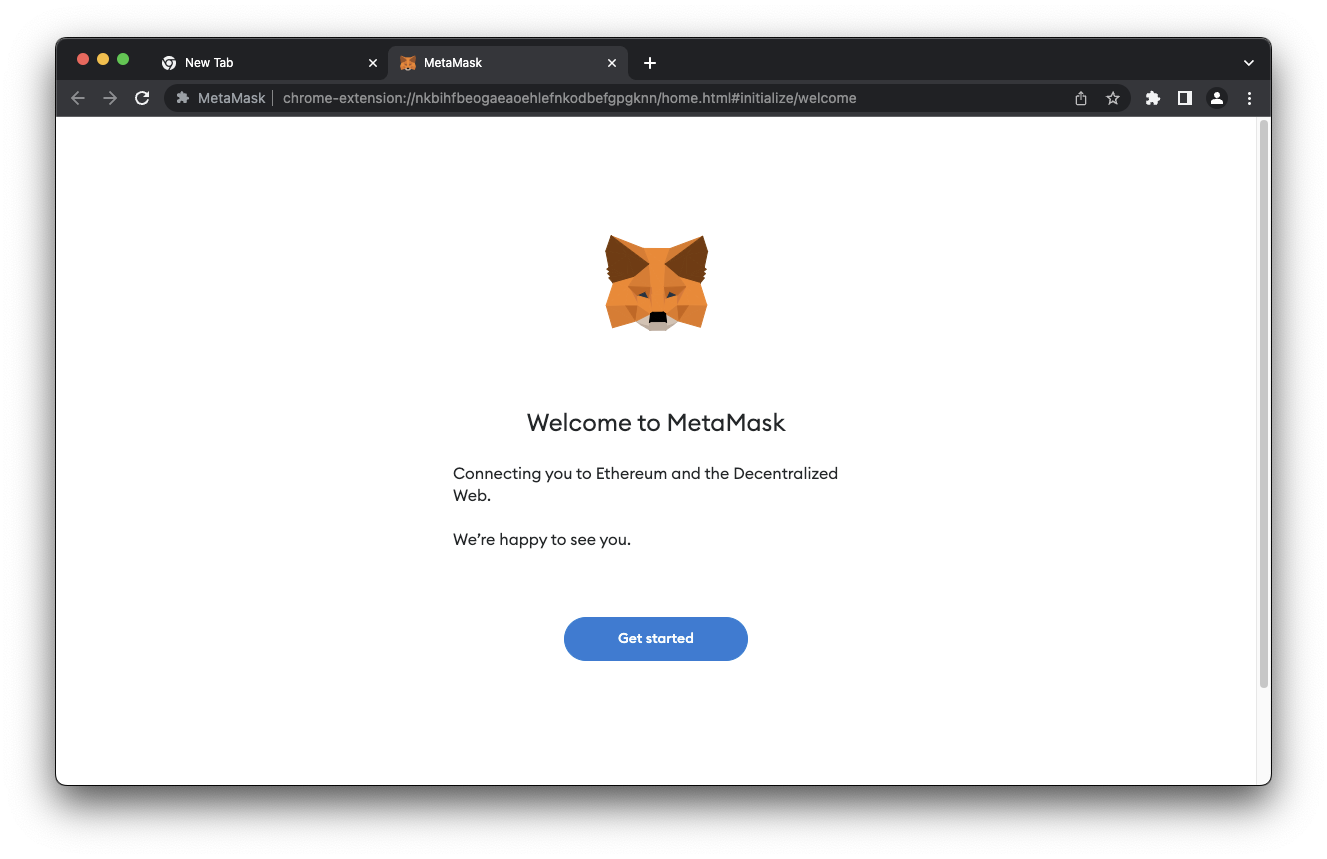
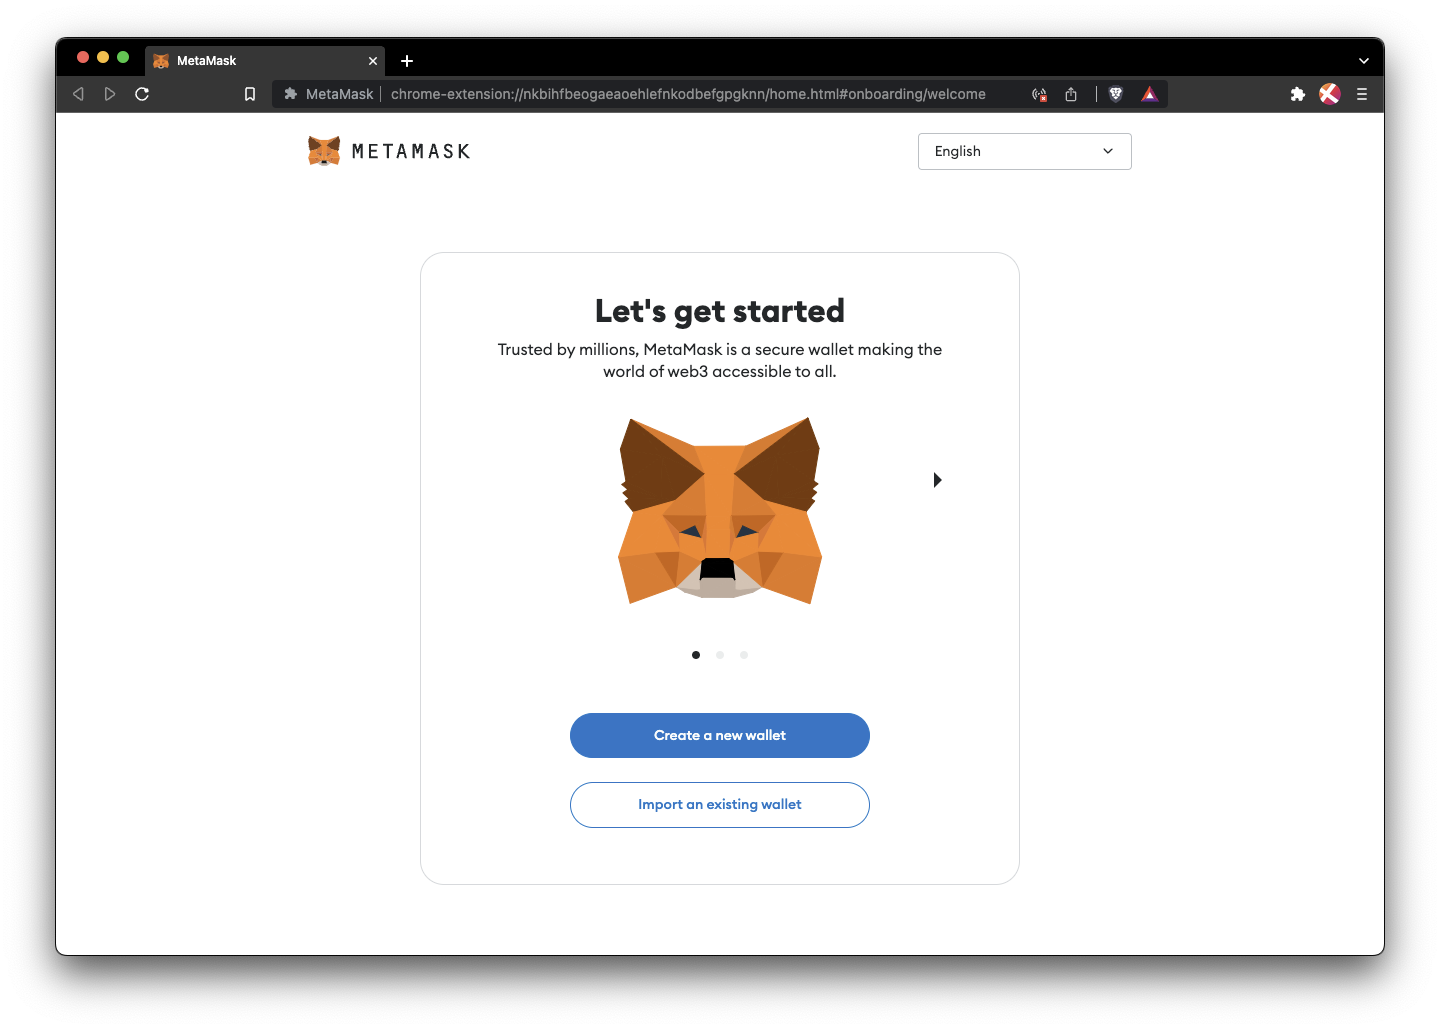
Recreates metamask and chainlist screenshots.

Changed region(s): [[0.0309, 0.0303, 0.9887, 0.9686], [0.3399, 0.2724, 0.6488, 0.6356], [0.3708, 0.6659, 0.6179, 0.787]]

diff --git a/content/en/developers/smart-contracts/quickstart/index.md b/content/en/developers/smart-contracts/quickstart/index.md
@@ -36,40 +36,84 @@ Before we can interact with the Filecoin network, we need funds. But before we c
 
     ![Get started with MetaMask.](metamask-get-started.png)
 
-1. Follow the prompts until you MetaMask asks if you are **New to MetaMask**.
-1. Because you still need an account on the Filecoin network, select **Create a wallet**.
+1. Click **Create a new wallet**.
+1. Enter a password to secure your MetaMask wallet. You will need to enter this password every time you use the wallet.
 
-    ![Create a wallet in MetaMask.](metamask-create-new-wallet.png)
+    ![Create a password for your MetaMask wallet.](metamask-create-password.png)
 
-1. Enter a secure password. You will use this password every time you want to open this wallet in this browser.
-1. Click **Next** until you get to the **Secret Recovery Phrase** window. Read the information about what this _recovery phrase_ is on this page.
-1. Once you've followed the instructions and saved your recovery phrase, click **Next**.
-1. Confirm that you saved the recovery phrase correctly by clicking on the words in order.
+1. Follow the prompts until you get to the **Secret Recovery Phrase** window. Read the information about what this _recovery phrase_ is on this page.
+1. Eventually you should get to the _Wallet creation success_ page!
+
+    ![Wallet creation successful!](metamask-creation-success.png)
+
 1. Once you've done that, you should have your account set up!
+
+    ![Default MetaMask page.](metamask-default-page.png)
 
 ### Switch networks
 
-You may notice that we are currently connected to the **Ethereum Mainnet**. We need to point MetaMask to the Filecoin network, specifically the [Hyperspace testnet]({<< reref "available-networks#hyerspace" >}}). We'll use a website called [chainlist.org](https://chainlist.org/) to give MetaMask the information it needs quickly.
+You may notice that we are currently connected to the **Ethereum Mainnet**. We need to point MetaMask to the Filecoin network, specifically the [Hyperspace testnet]({{< relref "/developers/infrastructure/networks" >}}). We'll use a website called [chainlist.org](https://chainlist.org/) to give MetaMask the information it needs quickly.
 
 1. Go to [chainlist.org](https://chainlist.org/).
 1. Enable the **Testnets** toggle and enter `Filecoin` into the search bar.
+
+    ![Search for Filecoin testnets in Chainlist.](chainlist-search-for-filecoin-testnets.png)
+
 1. Scroll down to find the **Filecoin -- Hyperspace** testnet:
-1. In MetaMask click **Next** and then **Continue** when prompted to connect Chainlist.org to MetaMask:
-1. Back on the Chainlist.org page, click the **Filecoin -- Hyperspace** testnet connect button again.
-1. In MetaMask click **Approve** when prompted to _Allow this site to add a network_:
+
+    ![Find the Hyperspace testnet.](chainlist-select-hyperspace.png)
+
+1. In MetaMask click **Next**.
+
+    ![Click next in MetaMask.](chainlist-connect-with-metamask.png)
+
+1. Click **Connect**:
+
+    ![Click connect in MetaMask.](chainlist-click-connect-in-metamask.png)
+
+1. Click **Approve** when prompted to _Allow this site to add a network_:
+
+    ![Approve the new network in MetaMask](chainlist-approve-new-network.png)
+
 1. Click **Switch network** when prompted by MetaMask:
-1. Open MetaMask, and you should see that you're now on the Filecoin Hyperspace testnet:
+
+    ![Switch networks in MetaMask.](chainlist-switch-network.png)
+
+1. Open MetaMask from the browser extensions tab:
+
+    ![Open MetaMask from the browser extensions tab.](chainlist-open-metamask.png)
+
+1. You should see the Filecoin Hyperspace testnet listed at the top:
+
+    ![MetaMask on the Filecoin Hyperspace testnet.](chainlist-hyperspace-added.png)
+
 Nice! Now we've got the Filecoin Hyperspace testnet set up within MetaMask. You'll notice that our MetaMask window shows `0 TFIL`. Test-filecoin (`TFIL`) is `FIL` that has no value in the _real world_, and developers use it for testing. We'll grab some `TFIL` next.
 
 ### Get some funds
 
-1. Open your browser and open MetaMask.
-1. Click your account to copy the address to your clipboard:
-1. Go to [hyperspace.yoga](https://hyperspace.yoga/#faucet) and scrolldown to the **Faucet** section.
+1. In your browser, open MetaMask and copy your address to your clipboard:
+
+    ![Copy your address to your clipboard.](faucet-get-address.png)
+
+1. Go to [hyperspace.yoga](https://hyperspace.yoga) and click **Faucet** from the menu.
+
+    ![Go to the Faucet section of the website.](faucet-click-faucet.png)
+
 1. Paste your address into the address field, complete the **I am human** captcha, and then click **Send**:
-1. The faucet should give you a link to the transaction. Click it to view your transaction:
+
+    ![Verify you're a human.](faucet-verify.png)
+
+1. The faucet should give you a link to the transaction:
+
+    ![Click on the message link.](faucet-get-message-link.png)
+
 1. The block explorer will show you the transaction history for your address. After a couple of minutes, you should see 5000 `tFIL` transferred to your address.
+
+    ![Show the message confirmation in a block explorer.](faucet-show-message-confirmation.png)
+
 1. Open MetaMask to confirm that you received the `tFIL`:
+
+    ![MetaMask showing a balance of FIL.](faucet-metamask-with-balance.png)
 
 That's all there is to it! Getting `tFil` is easy!
 
@@ -83,15 +127,9 @@ In Remix, workspaces are siloed environments where you can create a contract, or
 
 1. Open [remix.ethereum.org](https://remix.ethereum.org).
 1. Click the `+` icon next to **Workspaces** to create a new workspace:
-
-    ![Create a new Remix workspace.](remix-new-workspace.png)
-
 1. In the **Choose a template** dropdown, select **ERC 20**.
 1. Select the **Mintable** checkbox.
 1. Enter a fun name for your token in the **Workspace name** field. Something like `CorgiCoin` works fine.
-
-    ![Name your workspace in Remix.](remix-create-workspace.png)
-
 1. Click **OK** to create your new workspace.
 
 ### Customize the contract
@@ -101,9 +139,6 @@ The contract template we're using is pretty simple; we just need to modify a cou
 1. Under the **contract** directory, click **MyToken.sol**.
 1. In the editor panel, replace `MyToken` with whatever you'd like to name your token. In this example, we'll use `CorgiCoin`.
 1. On the same line, replace the second string with whatever you want the symbol of your token to be. In this example, we'll use `CRG`.
-
-    ![Edit your contract in Remix.](remix-edit-contract.png)
-
 That's all we need to change within this contract. You can see on line 4 that this contract is importing another contract from `@openzeppelin` for us, meaning that we can keep our custom token contract simple.
 
 ### Compile
@@ -111,39 +146,19 @@ That's all we need to change within this contract. You can see on line 4 that th
 1. Click the green play symbol at the top of the workspace to compile your contract. You can also press `CMD` + `s` on MacOS or `CTRL` + `s` on Linux and Windows.
 1. Remix automatically fetches the two `import` contracts from the top of our `.sol` contract. You can see these imported contracts under the `.deps` directory. You can browse the contracts there, but Remix will not save any changes you make.
 
-![Remix showing imported contracts.](remix-imported-contracts.png)
-
 ### Deploy
 
 Now that we've successfully compiled our contract, we need to deploy it somewhere! This is where our previous MetaMask setup comes into play.
 
 1. Click the **Deploy** tab from the left.
-
-    ![Click deploy within Remix.](remix-click-deploy.png)
-
 1. Under the **Environment** dropdown, select **Injected Provider - MetaMask**.
-
-    ![Select the proper network within Remix.](remix-select-network-dropdown.png)
-
 1. MetaMask will open a new window confirming that you want to connect your account to Remix.
 1. Click **Next** and then **Connect** to connect your `tFIL` account to Remix.
 1. Back in Remix, under the **Account** field, you'll see that it says something like `0x5A5... (5000 ether)`. This value is 5000 `tFIL`, but Remix doesn't natively support the Filecoin network and thus doesn't understand what `tFIL` is. This isn't a problem; it's just a little quirk of using Remix.
-
-    ![Remix showing 5000 tFil.](remix-5000-tfil.png)
-
 1. Under the **Contract** dropdown, ensure the contract you created is selected.
-
-    ![Select your contract in Remix.](remix-select-contract.png)
-
 1. Click **Deploy**.
-
-    ![Remix showing the deploy button.](remix-deploy-button.png)
-
 1. MetaMask will open a window and as you to confirm the transaction. Scroll down and click **Confirm** to have MetaMask deploy the contract.
 1. Back in Remix, a message at the bottom of the screen shows that the creation of your token is pending.
-
-    ![A pending transaction in Remix.](remix-transaction-pending.png)
-
 1. Wait around 90 seconds for the deployment to complete.
 
 On the Filecoin network, a new set of blocks, also called a tipset, is created every thirty seconds. When deploying a contract, the transaction needs to be received by the network, and then the network needs to confirm the contract. This process takes around one to two tipsets to process -- or around 60 to 90 seconds.
@@ -157,25 +172,11 @@ Now that we've compiled and deployed the contract, it's time to actually interac
 Let's call a method within the deployed contract to mint some tokens.
 
 1. Back in Remix, open the **Deployed Contracts** dropdown, within the **Deploy** sidebar tab.
-
-    ![Remix showing my deployed contracts.](remix-deployed-contracts-dropdown.png)
-
 1. Expand the `mint` method. You must fill in two fields here: `to` and `amount`.
-
-    ![Remix showing the mint method of a contract.](remix-expand-mint-method.png)
-
 1. The `to` field specifies where address you want these initial tokens sent to. Open MetaMask, copy your address, and paste it into this field.
 1. This field expects an `attoFil` value. 1 `FIL` is equal to 1,000,000,000,000,000,000 `attoFil`. So if you wanted to mint 100 `FIL`, you would enter `100` followed by 18 zeros: `100000000000000000000`.
-
-    ![Enter a value into Remix.](remix-add-number.png)
-
 1. Click **Transact**.
-
-    ![Click transact in Remix.](remix-click-transact.png)
-
 1. MetaMask will open a window and ask you to confirm the transaction. Again, you must wait for the network to process the transaction, which should take about 90 seconds. You can move on to the next section while you're waiting.
-
-    ![Remix pending the minting of a contract.](remix-mint-pending.png)
 
 ### Add to MetaMask
 
@@ -183,9 +184,6 @@ Currently, MetaMask has no idea what our token is or what it even does. We can f
 
 1. Go back to Remix and open the **Deploy** sidebar tab.
 1. Under **Deployed Contracts**, you should see your contract address at the top. Click the copy icon to copy the address to your clipboard.
-
-    ![Copy your contract's deployment address.](remix-copy-deploy-address.png)
-
 1. Open MetaMask, select **Assets**, and click **Import your tokens**:
 1. In the **Token contract address** field, paste the contract address you just copied from Remix and then click **Add custom token**. MetaMask should autofill the rest of the information based on what it can find from the Filecoin network.
 1. Click **Import token**.

diff --git a/content/en/developers/smart-contracts/how-tos/add-to-metamask/index.md b/content/en/developers/smart-contracts/how-tos/add-to-metamask/index.md
@@ -15,6 +15,8 @@ aliases:
 
 {{< beta-warning >}}
 
+This page assumes that you already have [MetaMask installed](https://metamask.io/) in your browser.
+
 ## Simple method
 
 The easiest way to add a Filecoin testnet to your MetaMask is by using the pre-configured options at chainlist.org.
